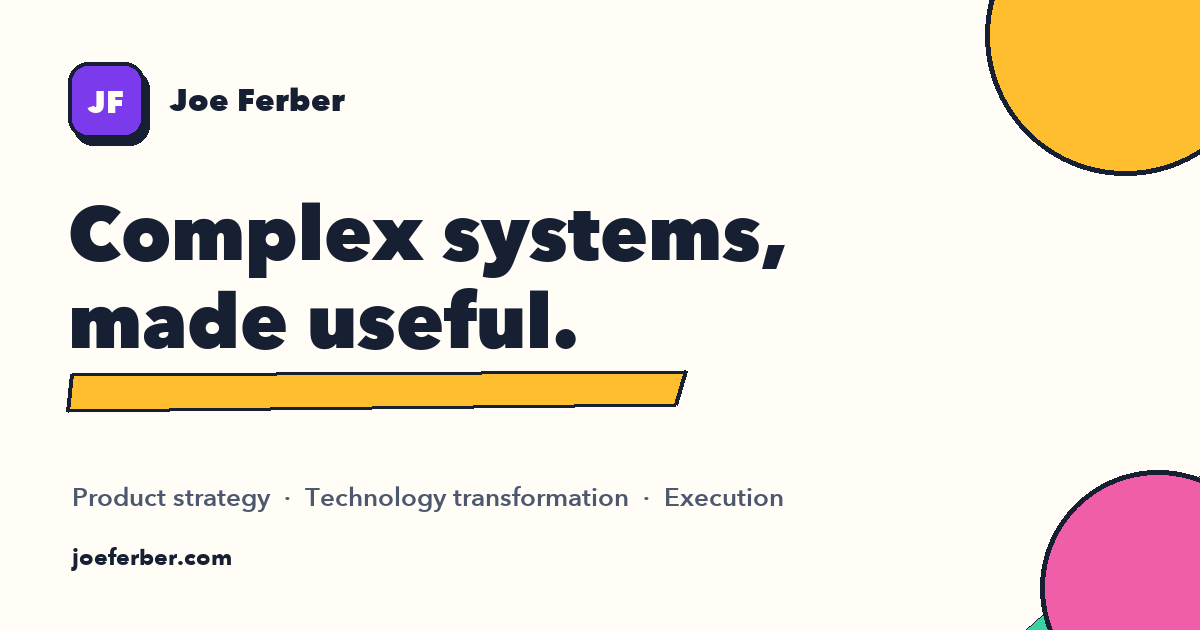
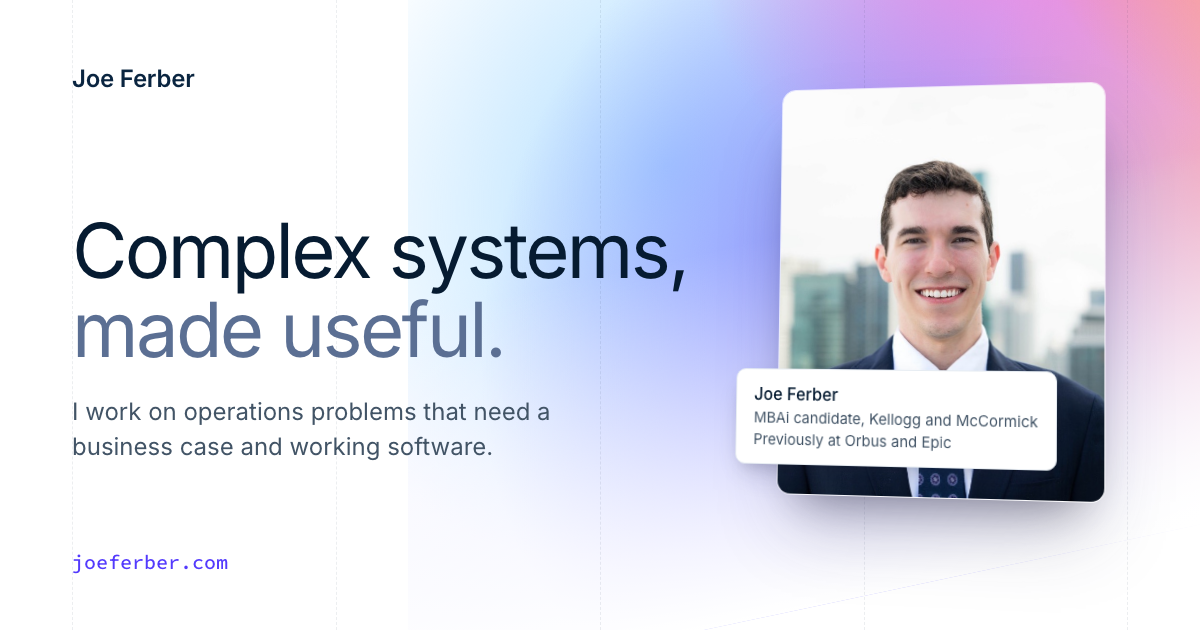
Redesign the link preview image to match the site (#38)

diff --git a/_tools/social/card.html b/_tools/social/card.html
@@ -1,0 +1,36 @@
+<!doctype html>
+<html><head>
+<!-- Source for assets/joe-ferber-social.png. Render with: Chrome --headless=new --window-size=1200,630 --screenshot --><meta charset="utf-8">
+<link href="https://fonts.googleapis.com/css2?family=Inter:wght@400;500;600&family=Source+Code+Pro:wght@500&display=swap" rel="stylesheet">
+<style>
+*{box-sizing:border-box}html,body{margin:0}
+body{width:1200px;height:630px;overflow:hidden;position:relative;background:#fff;font-family:Inter,system-ui,sans-serif;color:#0a2540;-webkit-font-smoothing:antialiased}
+.ribbon{position:absolute;inset:-40% -12% auto 34%;height:150%;transform:skewY(-12deg);transform-origin:0 0;overflow:hidden}
+.ribbon::before{content:"";position:absolute;inset:-20%;background:
+ radial-gradient(ellipse 38% 46% at 86% 26%,rgba(254,150,21,.9),transparent 70%),
+ radial-gradient(ellipse 40% 44% at 64% 30%,rgba(244,75,204,.78),transparent 70%),
+ radial-gradient(ellipse 34% 40% at 80% 58%,rgba(253,133,150,.7),transparent 70%),
+ radial-gradient(ellipse 46% 50% at 52% 62%,rgba(99,91,255,.72),transparent 70%),
+ radial-gradient(ellipse 40% 42% at 34% 50%,rgba(128,202,255,.6),transparent 70%),
+ radial-gradient(ellipse 50% 40% at 30% 82%,rgba(226,228,255,.9),transparent 70%)}
+.ribbon::after{content:"";position:absolute;inset:auto 0 0;height:40%;background:linear-gradient(to bottom,rgba(255,255,255,0),#fff)}
+.guides{position:absolute;inset:0 72px;display:grid;grid-template-columns:repeat(4,1fr)}
+.guides span{border-left:1px dashed rgba(10,37,64,.08)}.guides span:last-child{border-right:1px dashed rgba(10,37,64,.08)}
+.txt{position:absolute;left:72px;top:64px;width:640px}
+.mark{font-weight:600;font-size:24px;letter-spacing:-.01em}
+h1{margin:118px 0 0;font-weight:400;font-size:76px;line-height:1.04;letter-spacing:-.035em;color:#061b31}
+h1 span{color:#5b6f93}
+p{margin:26px 0 0;font-size:24px;line-height:1.45;color:#425466;max-width:24em}
+.url{position:absolute;left:72px;bottom:56px;font:500 20px "Source Code Pro",monospace;color:#533afd}
+.portrait{position:absolute;right:96px;top:84px;width:330px;transform:perspective(1200px) rotateY(-9deg) rotateX(3deg)}
+.photo{border-radius:14px;overflow:hidden;aspect-ratio:4/5;box-shadow:0 40px 70px -18px rgba(50,50,93,.35),0 24px 40px -24px rgba(0,0,0,.35);border:1px solid rgba(255,255,255,.7)}
+.photo img{display:block;width:100%;height:100%;object-fit:cover;object-position:50% 30%}
+.cap{position:absolute;left:-44px;bottom:30px;background:#fff;border:1px solid #e6ecf2;border-radius:10px;box-shadow:0 13px 27px -5px rgba(50,50,93,.2),0 8px 16px -8px rgba(0,0,0,.15);padding:13px 18px;font-size:15px;line-height:1.45;color:#425466}
+.cap b{display:block;font-weight:500;font-size:17px;color:#061b31}
+</style></head><body>
+<div class="ribbon"></div>
+<div class="guides"><span></span><span></span><span></span><span></span></div>
+<div class="txt"><div class="mark">Joe Ferber</div><h1>Complex systems, <span>made useful.</span></h1><p>I work on operations problems that need a business case and working software.</p></div>
+<div class="url">joeferber.com</div>
+<div class="portrait"><div class="photo"><img src="../../assets/joe-ferber-portrait.jpg"></div><div class="cap"><b>Joe Ferber</b>MBAi candidate, Kellogg and McCormick<br>Previously at Orbus and Epic</div></div>
+</body></html>

diff --git a/index.html b/index.html
@@ -9,15 +9,16 @@
 <meta property="og:type" content="website">
 <meta property="og:site_name" content="Joe Ferber">
 <meta property="og:title" content="Joe Ferber | Product &amp; Strategy">
-<meta property="og:description" content="I take complicated operations apart, find the layer that matters, and build what fixes it.">
-<meta property="og:image" content="https://joeferber.com/assets/joe-ferber-social.png?v=2">
+<meta property="og:description" content="I&#39;m Joe Ferber, an MBAi candidate at Kellogg and McCormick. I spent six years in consulting at Epic and Orbus, and these are the things I&#39;ve built.">
+<meta property="og:image" content="https://joeferber.com/assets/joe-ferber-social.png?v=3">
 <meta name="twitter:card" content="summary_large_image">
 <link rel="icon" href="assets/favicon.svg?v=1" type="image/svg+xml">
 <link rel="canonical" href="https://joeferber.com/">
 <meta property="og:url" content="https://joeferber.com/">
 <meta property="og:image:width" content="1200">
 <meta property="og:image:height" content="630">
-<meta property="og:image:alt" content="Joe Ferber: Complex systems, made useful.">
+<meta property="og:image:alt" content="Joe Ferber: Complex systems, made useful. Portrait with a pink and purple gradient.">
+<meta name="twitter:image" content="https://joeferber.com/assets/joe-ferber-social.png?v=3">
 <link rel="preconnect" href="https://fonts.googleapis.com">
 <link rel="preconnect" href="https://fonts.gstatic.com" crossorigin>
 <link href="https://fonts.googleapis.com/css2?family=Inter:wght@300;400;500;600&family=Source+Code+Pro:wght@400;500&family=Oswald:wght@500;600&family=Jost:wght@500;600&family=Cormorant+Garamond:wght@600&family=Arvo:wght@700&display=swap" rel="stylesheet">

diff --git a/books/index.html b/books/index.html
@@ -9,15 +9,16 @@
 <meta property="og:type" content="website">
 <meta property="og:site_name" content="Joe Ferber">
 <meta property="og:title" content="Book recommendations | Joe Ferber">
-<meta property="og:description" content="I take complicated operations apart, find the layer that matters, and build what fixes it.">
-<meta property="og:image" content="https://joeferber.com/assets/joe-ferber-social.png?v=2">
+<meta property="og:description" content="Thirteen books I&#39;d hand a friend, with what each one is about and what I thought.">
+<meta property="og:image" content="https://joeferber.com/assets/joe-ferber-social.png?v=3">
 <meta name="twitter:card" content="summary_large_image">
 <link rel="icon" href="/assets/favicon.svg?v=1" type="image/svg+xml">
 <link rel="canonical" href="https://joeferber.com/books/">
 <meta property="og:url" content="https://joeferber.com/books/">
 <meta property="og:image:width" content="1200">
 <meta property="og:image:height" content="630">
-<meta property="og:image:alt" content="Joe Ferber: Complex systems, made useful.">
+<meta property="og:image:alt" content="Joe Ferber: Complex systems, made useful. Portrait with a pink and purple gradient.">
+<meta name="twitter:image" content="https://joeferber.com/assets/joe-ferber-social.png?v=3">
 <link rel="preconnect" href="https://fonts.googleapis.com">
 <link rel="preconnect" href="https://fonts.gstatic.com" crossorigin>
 <link href="https://fonts.googleapis.com/css2?family=Inter:wght@300;400;500;600&family=Source+Code+Pro:wght@400;500&family=Oswald:wght@500;600&family=Jost:wght@500;600&family=Cormorant+Garamond:wght@600&family=Arvo:wght@700&display=swap" rel="stylesheet">
